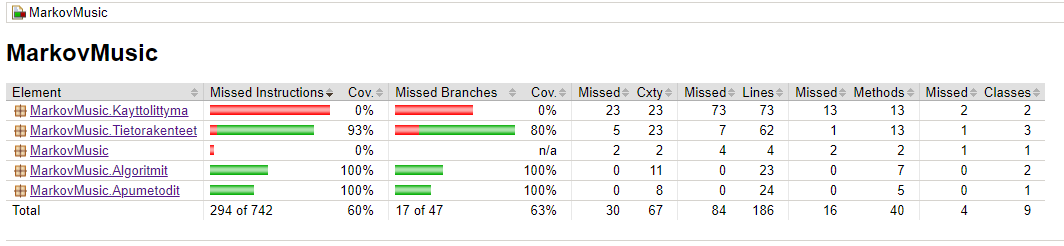
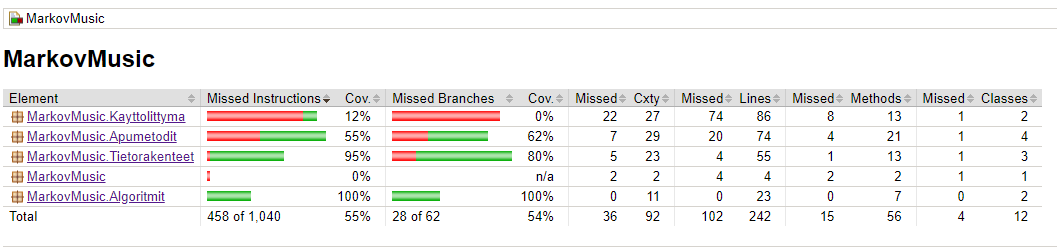
päivitetty tietoja

diff --git a/dokumentaatio/viikkoraportit/viikkoraportti4.md b/dokumentaatio/viikkoraportit/viikkoraportti4.md
@@ -6,9 +6,15 @@
 | Aihe          | Ajankäyttö    | Päivä |
 | ------------- |-------------  |-------|
 | MID soitin | 1 h  | su |
+| Dokumentaatio | 2h | ke |
+| Koodausta | 5 h | ke |
+| Dokumentaatio | 1 h | to |
+| Koodausta | 3 h | to |
 
 ## Edistyminen
-- MID tiedostoja pystyy soittamaan ohjelmalla
+- MIDI tiedostoja pystyy soittamaan ohjelmalla
+- Ohjelma osaa hakea kaikki Markovin ketjuja varten vaadittavat tiedot MIDI tiedostoista
+
 ## Mitä opin
 
 ## Vaikeuksia

diff --git a/dokumentaatio/testausdokumentti.md b/dokumentaatio/testausdokumentti.md
@@ -1,6 +1,6 @@
 # Testaus
 
-### Testikattavuus (ilman kayttoliittymaa ~62%)
+### Testikattavuus (ilman kayttoliittymaa ~65%)
 ![](https://github.com/lossitomatossi/MarkovMusic/blob/main/dokumentaatio/kuvat/Jacoco.PNG "Jacoco testikattavuus")
 
 ### Testaustavat
